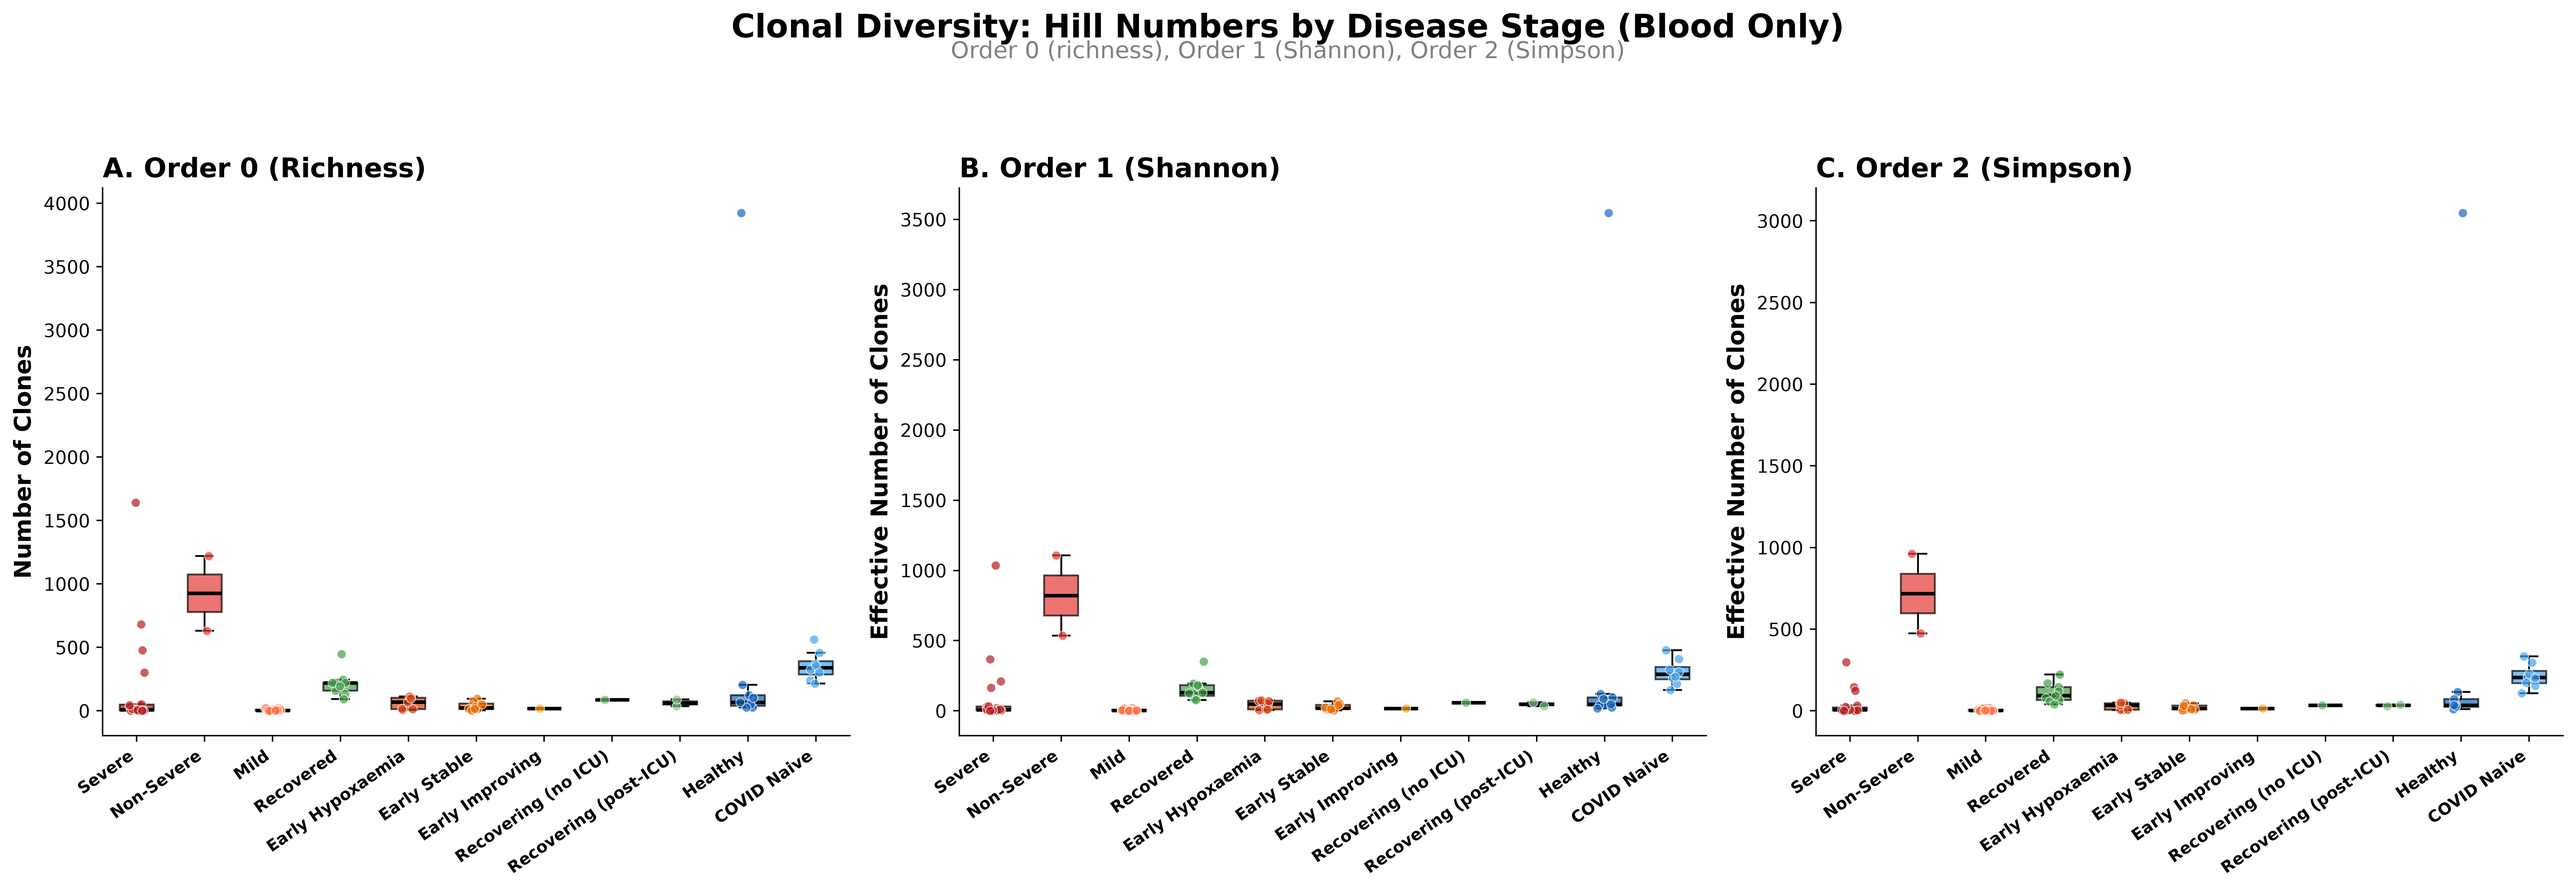
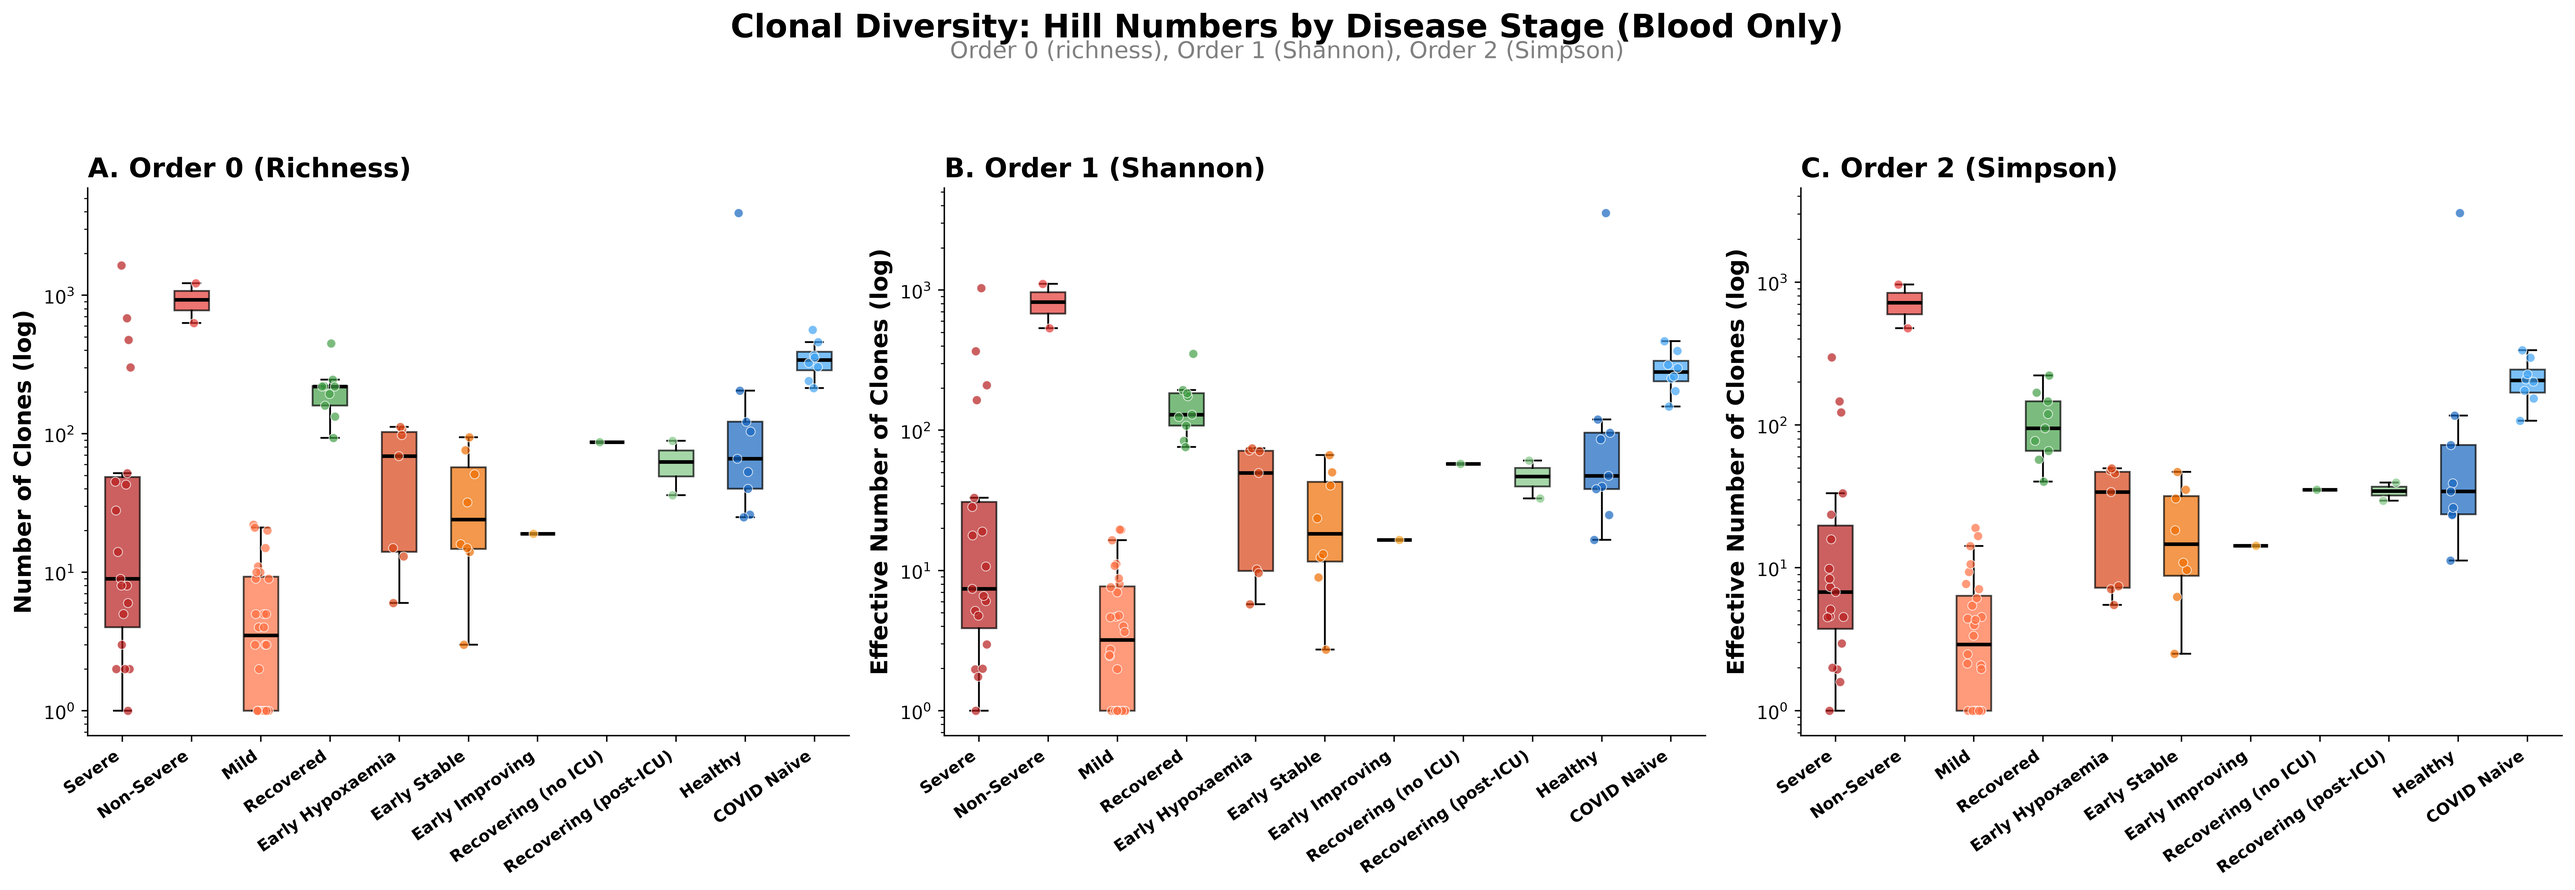
Apply log scale to Hill numbers boxplots
Compresses the y-axis so the heavily-sampled Healthy outlier no longer
dominates the view.

diff --git a/immunedb_STATS_API/clonal_analysis/hill_numbers_fig.py b/immunedb_STATS_API/clonal_analysis/hill_numbers_fig.py
@@ -138,13 +138,14 @@ for panel_idx, (key, title) in enumerate(zip(keys, titles)):
     ax.set_xticks(range(len(disease_order)))
     ax.set_xticklabels(disease_order, fontsize=9, fontweight="bold", rotation=35, ha="right")
     ax.set_title(title, fontsize=15, fontweight="bold", loc="left")
+    ax.set_yscale("log")
     ax.spines["top"].set_visible(False)
     ax.spines["right"].set_visible(False)
 
     if panel_idx == 0:
-        ax.set_ylabel("Number of Clones", fontsize=13, fontweight="bold")
+        ax.set_ylabel("Number of Clones (log)", fontsize=13, fontweight="bold")
     else:
-        ax.set_ylabel("Effective Number of Clones", fontsize=13, fontweight="bold")
+        ax.set_ylabel("Effective Number of Clones (log)", fontsize=13, fontweight="bold")
 
 plt.tight_layout(rect=[0, 0, 1, 0.90])
 plt.savefig("plots/17_diversity_hill_numbers.png", dpi=400, bbox_inches="tight", facecolor="white")
